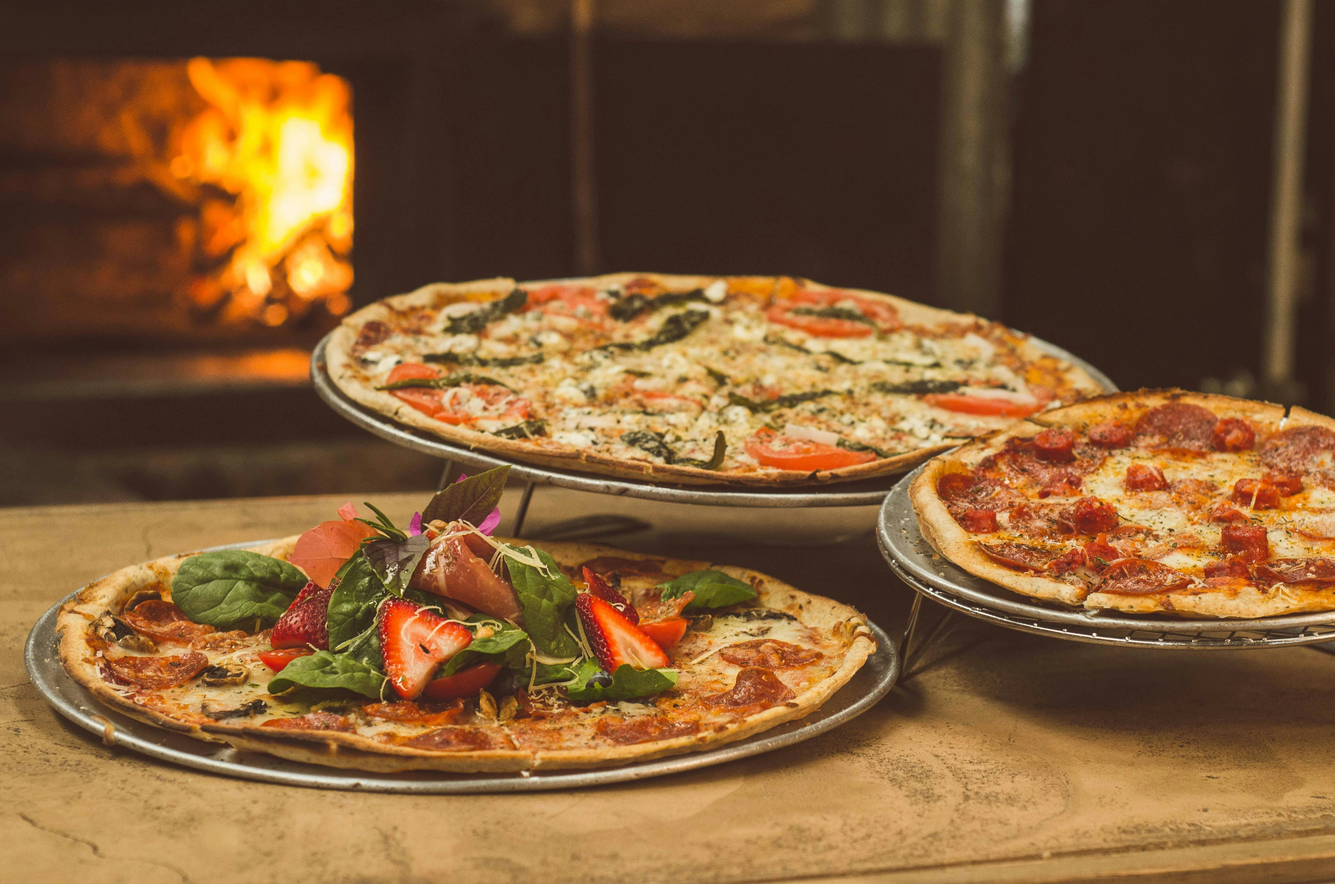
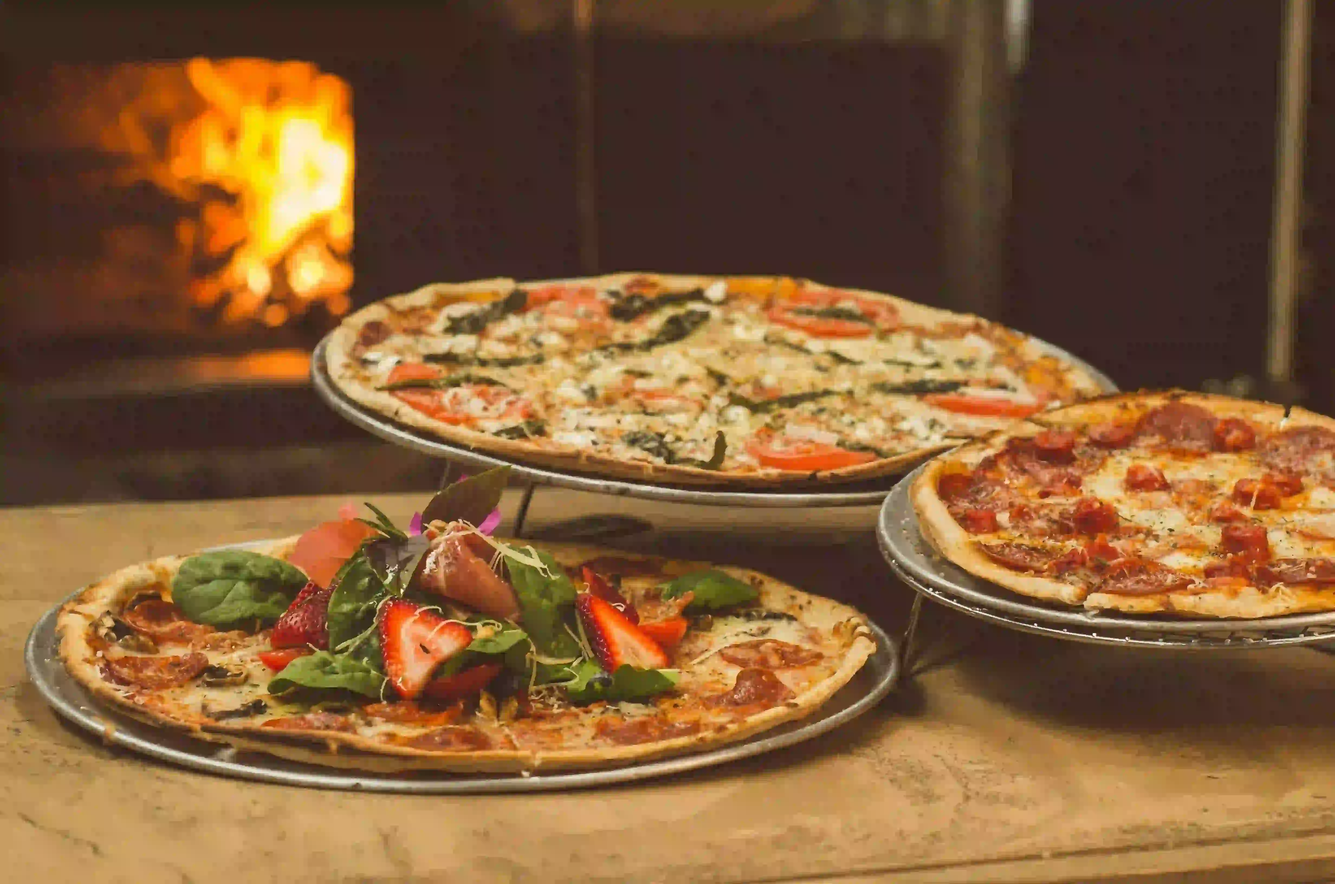
Compressed images for faster loading

diff --git a/index.html b/index.html
@@ -39,14 +39,16 @@
 
         <!-- SLIDER -->
         <link rel="stylesheet" href="https://cdnjs.cloudflare.com/ajax/libs/tiny-slider/2.9.4/tiny-slider.css">
-        <script src="https://cdnjs.cloudflare.com/ajax/libs/tiny-slider/2.9.4/min/tiny-slider.js"></script>
+
+        <!-- LAZY LOADING -->
+        <script src="https://cdnjs.cloudflare.com/ajax/libs/lazysizes/5.3.2/lazysizes.min.js" async></script>
     </head>
     <body onload="heroChange()">
         <!-- START NAVBAR -->
         <nav>
             <div class="logo">
                 <a href="index">
-                    <img src="assets/img/logo/fresco_white.png" alt="Logo">
+                    <img src="assets/img/logo/fresco_white.png" alt="Logo" loading="lazy">
                 </a>
             </div>
             <div class="links">
@@ -61,11 +63,11 @@
         <!-- START HERO -->
         <section class="hero">
             <div class="images">
-                <img src="assets/img/hero/1.webp" alt="Hero image 1" class="hero-image" style="opacity: 1;">
-                <img src="assets/img/hero/2.webp" alt="Hero image 2" class="hero-image">
-                <img src="assets/img/hero/3.webp" alt="Hero image 3" class="hero-image">
-                <img src="assets/img/hero/4.webp" alt="Hero image 4" class="hero-image">
-                <img src="assets/img/hero/5.webp" alt="Hero image 5" class="hero-image">
+                <img src="assets/img/hero/1.webp" alt="Hero image 1" class="hero-image" style="opacity: 1;" loading="lazy">
+                <img src="assets/img/hero/2.webp" alt="Hero image 2" class="hero-image" loading="lazy">
+                <img src="assets/img/hero/3.webp" alt="Hero image 3" class="hero-image" loading="lazy">
+                <img src="assets/img/hero/4.webp" alt="Hero image 4" class="hero-image" loading="lazy">
+                <img src="assets/img/hero/5.webp" alt="Hero image 5" class="hero-image" loading="lazy">
             </div>
             <div class="hero-text">
                 <h1>Fresco</h1>
@@ -94,28 +96,28 @@
 
             <div class="wrapper">
                 <div class="container">
-                    <img src="assets/img/menu/margherita.webp" alt="Margherita">
+                    <img src="assets/img/menu/margherita.webp" alt="Margherita" loading="lazy">
                     <div id="info">
                         <h1>Margherita</h1>
                         <p><i>Pizza</i></p>
                     </div>
                 </div>
                 <div class="container">
-                    <img src="assets/img/menu/spaghetti.webp" alt="Spaghetti">
+                    <img src="assets/img/menu/spaghetti.webp" alt="Spaghetti" loading="lazy">
                     <div id="info">
                         <h1>Spaghetti</h1>
                         <p><i>Tjestenina</i></p>
                     </div>
                 </div>
                 <div class="container">
-                    <img src="assets/img/menu/lasagna.webp" alt="Lasagna">
+                    <img src="assets/img/menu/lasagna.webp" alt="Lasagna" loading="lazy">
                     <div id="info">
                         <h1>Lasagna</h1>
                         <p><i>Goveđe lazanje</i></p>
                     </div>
                 </div>
                 <div class="container">
-                    <img src="assets/img/menu/risotto.webp" alt="Risotto">
+                    <img src="assets/img/menu/risotto.webp" alt="Risotto" loading="lazy">
                     <div id="info">
                         <h1>Risotto</h1>
                         <p><i>Jelo sa rižom</i></p>
@@ -135,14 +137,14 @@
 
             <div class="wrapper">
                 <div class="container">
-                    <img src="assets/img/staff/chef.webp" alt="John Doe">
+                    <img src="assets/img/staff/chef.webp" alt="John Doe" loading="lazy">
                     <div id="text">
                         <h2>John Doe</h2>
                         <p><i>Glavni kuvar</i></p>
                     </div>
                 </div>
                 <div class="container">
-                    <img src="assets/img/staff/chef.webp" alt="John Doe">
+                    <img src="assets/img/staff/chef.webp" alt="John Doe" loading="lazy">
                     <div id="text">
                         <h2>John Doe</h2>
                         <p><i>Glavni kuvar</i></p>
@@ -164,7 +166,7 @@
                 <div class="slider">
                     <div class="container">
                         <div class="inner">
-                            <img src="assets/img/testimonials/avatar.svg" alt="Testimonial avatar">
+                            <img src="assets/img/testimonials/avatar.svg" alt="Testimonial avatar" loading="lazy">
                             <div id="info">
                                 <h2>John Doe</h2>
                                 <p><i>Google recenzija</i></p>
@@ -176,7 +178,7 @@
                     </div>
                     <div class="container">
                         <div class="inner">
-                            <img src="assets/img/testimonials/avatar.svg" alt="Testimonial avatar">
+                            <img src="assets/img/testimonials/avatar.svg" alt="Testimonial avatar" loading="lazy">
                             <div id="info">
                                 <h2>John Doe</h2>
                                 <p><i>Google recenzija</i></p>
@@ -213,13 +215,13 @@
                     <h2>ZAPRATI NAS</h2>
                     <div class="inner">
                         <a href="https://www.instagram.com/velimirpaleksic/" target="_blank">
-                            <img id="instagram" src="assets/img/icons/instagram.svg" alt="Instagram">
+                            <img id="instagram" src="assets/img/icons/instagram.svg" alt="Instagram" loading="lazy">
                         </a>
                         <a href="https://github.com/velimirpaleksic" target="_blank">
-                            <img id="github" src="assets/img/icons/github.svg" alt="Github">
+                            <img id="github" src="assets/img/icons/github.svg" alt="Github" loading="lazy">
                         </a>
                         <a href="https://velimirpaleksic.github.io/portfolio/" target="_blank">
-                            <img id="portfolio" src="assets/img/icons/resume.svg" alt="Website">
+                            <img id="portfolio" src="assets/img/icons/resume.svg" alt="Website" loading="lazy">
                         </a>
                     </div>
                 </div>
